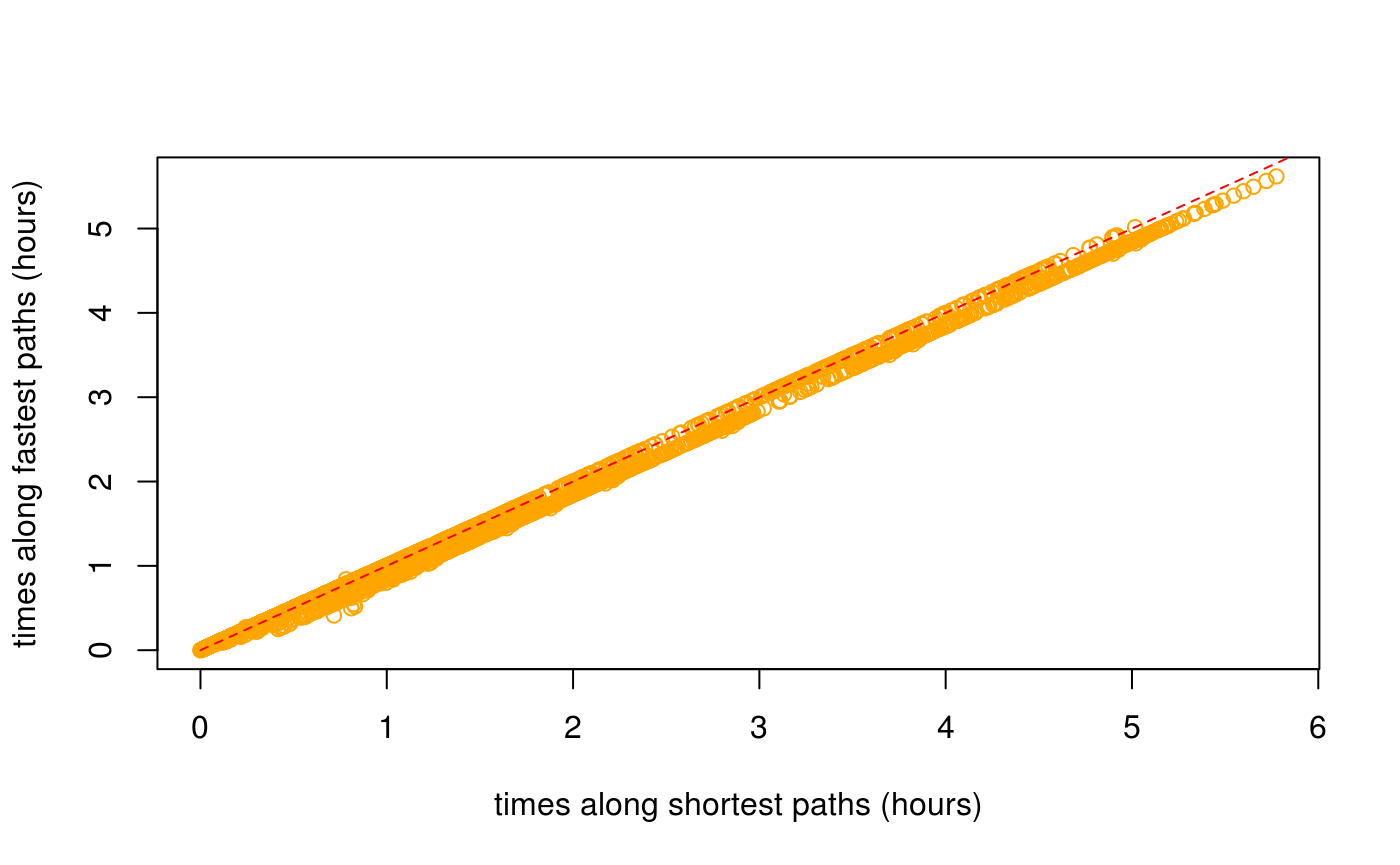
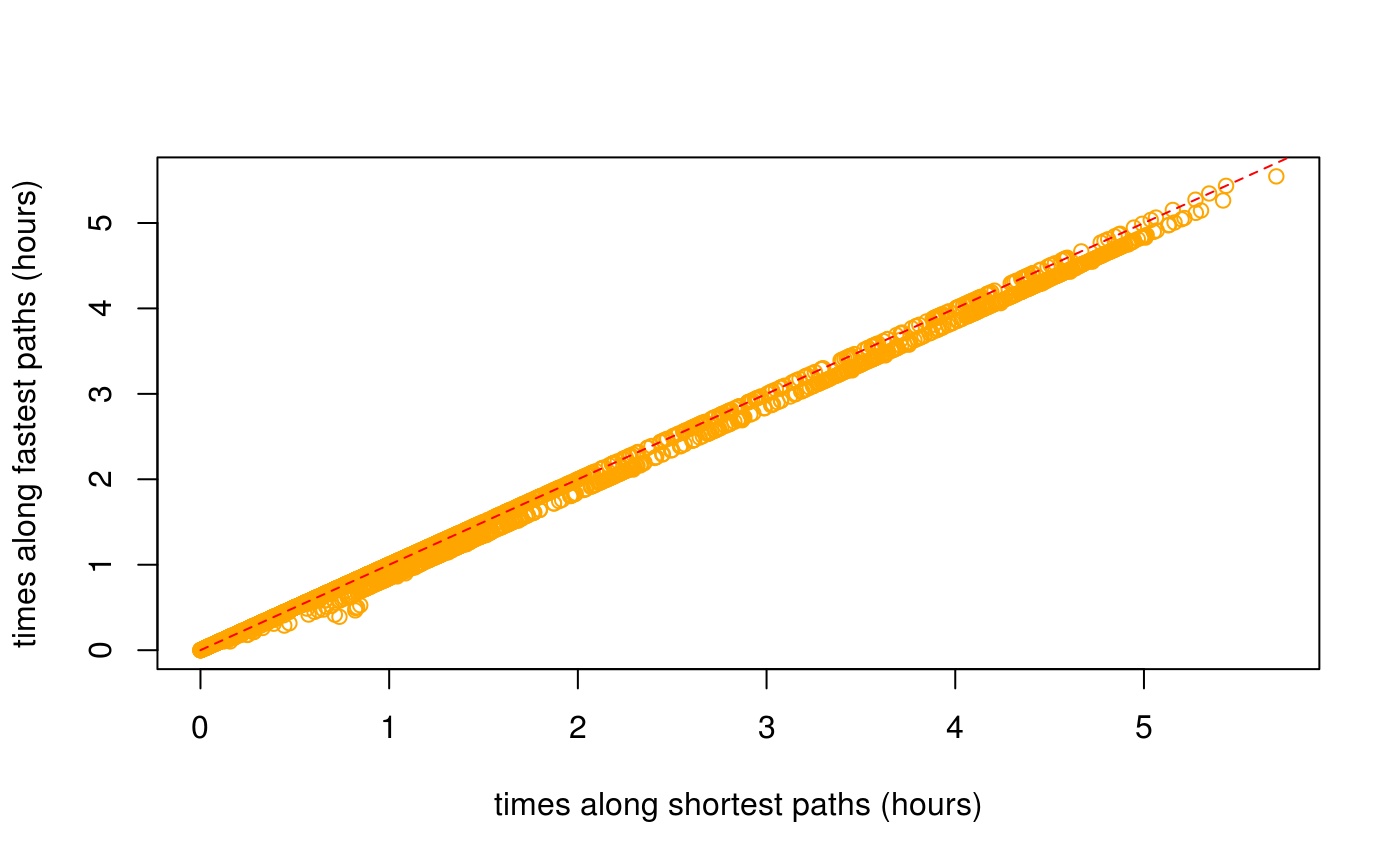
Built site for dodgr: 0.1.4.1@75f4a2b

diff --git a/articles/dodgr.html b/articles/dodgr.html
@@ -343,7 +343,7 @@ Figure 2: A <strong>dual</strong>-weighted, directed graph in which the weights 
 <p>The <code>dodgr</code> packages includes a function to select a random connected portion of graph including a specified number of vertices. This function is used in the <code><a href="../reference/compare_heaps.html">compare_heaps()</a></code> function described below, but is also useful for general statistical analyses of large graphs which may otherwise take too long to compute.</p>
 <div class="sourceCode" id="cb59"><pre class="sourceCode r"><code class="sourceCode r"><a class="sourceLine" id="cb59-1" data-line-number="1">graph_sub &lt;-<span class="st"> </span><span class="kw"><a href="../reference/dodgr_sample.html">dodgr_sample</a></span> (graph, <span class="dt">nverts =</span> <span class="dv">100</span>)</a>
 <a class="sourceLine" id="cb59-2" data-line-number="2"><span class="kw"><a href="https://www.rdocumentation.org/packages/base/topics/nrow">nrow</a></span> (graph_sub)</a></code></pre></div>
-<pre><code>## [1] 197</code></pre>
+<pre><code>## [1] 209</code></pre>
 <p>The random sample has around twice as many edges as vertices, in accordance with the statistics calculated above.</p>
 <div class="sourceCode" id="cb61"><pre class="sourceCode r"><code class="sourceCode r"><a class="sourceLine" id="cb61-1" data-line-number="1"><span class="kw"><a href="https://www.rdocumentation.org/packages/base/topics/nrow">nrow</a></span> (<span class="kw"><a href="../reference/dodgr_vertices.html">dodgr_vertices</a></span> (graph_sub))</a></code></pre></div>
 <pre><code>## [1] 100</code></pre>
@@ -421,30 +421,30 @@ Figure 2: A <strong>dual</strong>-weighted, directed graph in which the weights 
 <div class="sourceCode" id="cb77"><pre class="sourceCode r"><code class="sourceCode r"><a class="sourceLine" id="cb77-1" data-line-number="1"><span class="kw"><a href="../reference/compare_heaps.html">compare_heaps</a></span> (graph, <span class="dt">nverts =</span> <span class="dv">100</span>, <span class="dt">replications =</span> <span class="dv">1</span>)</a></code></pre></div>
 <pre><code>##                                                                                   test
 ## 12                  d &lt;- igraph::distances(igr, v = from_id, to = to_id, mode = "out")
-## 6       d &lt;- dodgr_dists(graph_contracted, from = from_id, to = to_id, heap = "BHeap")
 ## 9  d &lt;- dodgr_dists(graph_contracted, from = from_id, to = to_id, heap = "TriHeapExt")
-## 2                  d &lt;- dodgr_dists(graph, from = from_id, to = to_id, heap = "FHeap")
-## 3                d &lt;- dodgr_dists(graph, from = from_id, to = to_id, heap = "TriHeap")
-## 4             d &lt;- dodgr_dists(graph, from = from_id, to = to_id, heap = "TriHeapExt")
-## 7       d &lt;- dodgr_dists(graph_contracted, from = from_id, to = to_id, heap = "FHeap")
-## 8     d &lt;- dodgr_dists(graph_contracted, from = from_id, to = to_id, heap = "TriHeap")
 ## 10     d &lt;- dodgr_dists(graph_contracted, from = from_id, to = to_id, heap = "Heap23")
 ## 11        d &lt;- dodgr_dists(graph_contracted, from = from_id, to = to_id, heap = "set")
 ## 1                  d &lt;- dodgr_dists(graph, from = from_id, to = to_id, heap = "BHeap")
+## 2                  d &lt;- dodgr_dists(graph, from = from_id, to = to_id, heap = "FHeap")
+## 3                d &lt;- dodgr_dists(graph, from = from_id, to = to_id, heap = "TriHeap")
+## 4             d &lt;- dodgr_dists(graph, from = from_id, to = to_id, heap = "TriHeapExt")
 ## 5                 d &lt;- dodgr_dists(graph, from = from_id, to = to_id, heap = "Heap23")
+## 6       d &lt;- dodgr_dists(graph_contracted, from = from_id, to = to_id, heap = "BHeap")
+## 7       d &lt;- dodgr_dists(graph_contracted, from = from_id, to = to_id, heap = "FHeap")
+## 8     d &lt;- dodgr_dists(graph_contracted, from = from_id, to = to_id, heap = "TriHeap")
 ##    replications elapsed relative user.self sys.self user.child sys.child
 ## 12            1   0.001        1     0.000        0          0         0
-## 6             1   0.002        2     0.004        0          0         0
 ## 9             1   0.002        2     0.000        0          0         0
+## 10            1   0.002        2     0.004        0          0         0
+## 11            1   0.002        2     0.000        0          0         0
+## 1             1   0.003        3     0.004        0          0         0
 ## 2             1   0.003        3     0.004        0          0         0
 ## 3             1   0.003        3     0.004        0          0         0
 ## 4             1   0.003        3     0.004        0          0         0
+## 5             1   0.003        3     0.000        0          0         0
+## 6             1   0.003        3     0.004        0          0         0
 ## 7             1   0.003        3     0.004        0          0         0
-## 8             1   0.003        3     0.004        0          0         0
-## 10            1   0.003        3     0.004        0          0         0
-## 11            1   0.003        3     0.004        0          0         0
-## 1             1   0.004        4     0.004        0          0         0
-## 5             1   0.004        4     0.004        0          0         0</code></pre>
+## 8             1   0.003        3     0.004        0          0         0</code></pre>
 <p>The key column of that <code>data.frame</code> is <code>relative</code>, which quantifies the relative performance of each test in relation to the best which is given a score of 1. <code>dodgr</code> using the default <code>heap = "BHeap"</code>, which is a binary heap priority queue, performs faster than <code>igraph</code> <span class="citation">(Csardi and Nepusz 2006)</span> for these graphs. Different kind of graphs will perform differently with different priority queue structures, and this function enables users to empirically discern the optimal heap for their kind of graph.</p>
 <p>Note, however, that this is not an entirely fair comparison, because <code>dodgr</code> calculates dual-weighted distances, whereas <code>igraph</code>—and indeed all other <strong>R</strong> packages—only directly calculate distances based on a single set of weights. Implementing dual-weighted routing in these cases requires explicitly re-tracing all paths and summing the second set of weights along each path. A time comparison in that case would be very strongly in favour of <code>dodgr</code>. Moreover, <code>dodgr</code> can convert graphs to contracted form through removing redundant vertices, as detailed in the following section. Doing so greatly improves performance with respect to <code>igraph</code>.</p>
 <p>For those wishing to do explicit comparisons themselves, the following code generates the <code>igraph</code> equivalent of <code><a href="../reference/dodgr_dists.html">dodgr_dists()</a></code>, although of course for single-weighted graphs only:</p>
@@ -482,10 +482,10 @@ Figure 3: <strong>(A)</strong> Vertex#2 is redundant for routing calculations fr
 <a class="sourceLine" id="cb85-6" data-line-number="6">                       <span class="dt">replications =</span> <span class="dv">2</span>)</a></code></pre></div>
 <pre><code>##                                             test replications elapsed
 ## 2 d2 &lt;- dodgr_dists(graph, from = from, to = to)            2   0.051
-## 1   d2 &lt;- dodgr_dists(grc, from = from, to = to)            2   0.010
+## 1   d2 &lt;- dodgr_dists(grc, from = from, to = to)            2   0.011
 ##   relative user.self sys.self user.child sys.child
-## 2      5.1     0.072        0          0         0
-## 1      1.0     0.012        0          0         0</code></pre>
+## 2    4.636     0.068    0.004          0         0
+## 1    1.000     0.016    0.000          0         0</code></pre>
 <p>And contracting the graph has a similar effect of speeding up pairwise routing between these 100 points. All routing algorithms scale non-linearly with size, and relative improvements in efficiency will be even greater for larger graphs.</p>
 <div id="routing-on-contracted-graphs" class="section level2">
 <h2 class="hasAnchor">
@@ -497,11 +497,11 @@ Figure 3: <strong>(A)</strong> Vertex#2 is redundant for routing calculations fr
 <pre><code>## [1] 688</code></pre>
 <div class="sourceCode" id="cb89"><pre class="sourceCode r"><code class="sourceCode r"><a class="sourceLine" id="cb89-1" data-line-number="1">verts &lt;-<span class="st"> </span><span class="kw"><a href="https://www.rdocumentation.org/packages/base/topics/sample">sample</a></span> (<span class="kw"><a href="../reference/dodgr_vertices.html">dodgr_vertices</a></span> (graph)<span class="op">$</span>id, <span class="dt">size =</span> <span class="dv">100</span>)</a>
 <a class="sourceLine" id="cb89-2" data-line-number="2"><span class="kw"><a href="https://www.rdocumentation.org/packages/utils/topics/head">head</a></span> (verts) <span class="co"># a character vector</span></a></code></pre></div>
-<pre><code>## [1] "2608163889" "339318481"  "2195425010" "3544918738" "1204772675"
-## [6] "3456932072"</code></pre>
+<pre><code>## [1] "980400701"  "977473148"  "1376768866" "1143452081" "2627465900"
+## [6] "2398957798"</code></pre>
 <div class="sourceCode" id="cb91"><pre class="sourceCode r"><code class="sourceCode r"><a class="sourceLine" id="cb91-1" data-line-number="1">grc &lt;-<span class="st"> </span><span class="kw"><a href="../reference/dodgr_contract_graph.html">dodgr_contract_graph</a></span> (graph, verts)<span class="op">$</span>graph</a>
 <a class="sourceLine" id="cb91-2" data-line-number="2"><span class="kw"><a href="https://www.rdocumentation.org/packages/base/topics/nrow">nrow</a></span> (grc)</a></code></pre></div>
-<pre><code>## [1] 868</code></pre>
+<pre><code>## [1] 860</code></pre>
 <p>Retaining the nominated vertices yields a graph with considerably more edges than the fully contracted graph excluding these vertices. The <code><a href="../reference/dodgr_dists.html">dodgr_dists()</a></code> function can be applied to the latter graph to obtain accurate distances precisely routed between these points, yet using the speed advantages of graph contraction.</p>
 </div>
 </div>
@@ -542,25 +542,22 @@ Figure 3: <strong>(A)</strong> Vertex#2 is redundant for routing calculations fr
 <pre><code>## [1] 10</code></pre>
 <p>The result (<code>dp</code>) is a list of 10 items, each of which contains 5 vectors. An example is,</p>
 <div class="sourceCode" id="cb98"><pre class="sourceCode r"><code class="sourceCode r"><a class="sourceLine" id="cb98-1" data-line-number="1">dp [[<span class="dv">1</span>]] [[<span class="dv">1</span>]]</a></code></pre></div>
-<pre><code>##  [1] "571423194"  "571423193"  "571423192"  "571423191"  "571423190" 
-##  [6] "571423189"  "2195425004" "571423185"  "571423179"  "977490136" 
-## [11] "1143452068" "1143452367" "977490059"  "2195424990" "2195424987"
-## [16] "2195424986" "2195424994" "2195425005" "2195425010" "2195425013"
-## [21] "2195425018" "2195425025" "2195425030" "2195425036" "2195425039"
-## [26] "2195425040" "2195425042" "2195425049" "2195425046" "2195425044"
-## [31] "2195425043" "2195425045" "2195425051" "2195425055" "2195425057"
-## [36] "2195425060"</code></pre>
+<pre><code>##  [1] "1398748025" "1398747921" "1398747948" "1398747978" "1398748001"
+##  [6] "1388481878" "1388482427" "1388482128" "1388482818" "1388483505"
+## [11] "977490091"  "1388482641" "1388481994" "1388483314" "977490139" 
+## [16] "1388483597" "977490076"  "1388482737" "1388482060" "2718045832"
+## [21] "2195424937" "2195424935"</code></pre>
 <p>For spatial graphs, the coordinates of these paths can be obtained by extracting the vertices with <code><a href="../reference/dodgr_vertices.html">dodgr_vertices()</a></code> and matching the vertex IDs:</p>
 <div class="sourceCode" id="cb100"><pre class="sourceCode r"><code class="sourceCode r"><a class="sourceLine" id="cb100-1" data-line-number="1">verts &lt;-<span class="st"> </span><span class="kw"><a href="../reference/dodgr_vertices.html">dodgr_vertices</a></span> (graph)</a>
 <a class="sourceLine" id="cb100-2" data-line-number="2">path1 &lt;-<span class="st"> </span>verts [<span class="kw"><a href="https://www.rdocumentation.org/packages/base/topics/match">match</a></span> (dp [[<span class="dv">1</span>]] [[<span class="dv">1</span>]], verts<span class="op">$</span>id), ]</a>
 <a class="sourceLine" id="cb100-3" data-line-number="3"><span class="kw"><a href="https://www.rdocumentation.org/packages/utils/topics/head">head</a></span> (path1)</a></code></pre></div>
-<pre><code>##             id        x        y component   n
-## 672  571423194 76.47538 15.35709         2 345
-## 1726 571423193 76.47527 15.35666         2 874
-## 1724 571423192 76.47493 15.35603         2 873
-## 1722 571423191 76.47450 15.35552         2 872
-## 1720 571423190 76.47422 15.35506         2 871
-## 1718 571423189 76.47330 15.35346         2 870</code></pre>
+<pre><code>##              id        x        y component    n
+## 3022 1398748025 76.45443 15.34953         2 1516
+## 3020 1398747921 76.45434 15.34944         2 1515
+## 3018 1398747948 76.45421 15.34934         2 1514
+## 3016 1398747978 76.45408 15.34919         2 1513
+## 3014 1398748001 76.45403 15.34898         2 1512
+## 1634 1388481878 76.45378 15.34817         2  828</code></pre>
 <p>Paths calculated on contracted graphs will of course have fewer vertices than those calculated on full graphs.</p>
 </div>
 <div id="aggregated-flows" class="section level1">
@@ -594,17 +591,17 @@ Figure 3: <strong>(A)</strong> Vertex#2 is redundant for routing calculations fr
 ## 4 15.34173   8.888670    9.87630 service 28565950         1  2.133281
 ## 5 15.34179   9.326536   10.36282 service 28565950         1  2.238369
 ## 6 15.34174   9.326536   10.36282 service 28565950         1  2.238369
-##   time_weighted flow
-## 1     35.317912    0
-## 2     35.317912    0
-## 3      2.370312    0
-## 4      2.370312    0
-## 5      2.487076    0
-## 6      2.487076    0</code></pre>
+##   time_weighted     flow
+## 1     35.317912  0.00000
+## 2     35.317912 32.34108
+## 3      2.370312  0.00000
+## 4      2.370312 32.34108
+## 5      2.487076  0.00000
+## 6      2.487076  0.00000</code></pre>
 <p>Most flows are zero because they have only been calculated between very few points in the graph.</p>
 <div class="sourceCode" id="cb105"><pre class="sourceCode r"><code class="sourceCode r"><a class="sourceLine" id="cb105-1" data-line-number="1"><span class="kw"><a href="https://www.rdocumentation.org/packages/base/topics/summary">summary</a></span> (graph_f<span class="op">$</span>flow)</a></code></pre></div>
 <pre><code>##    Min. 1st Qu.  Median    Mean 3rd Qu.    Max. 
-##   0.000   0.000   0.000   3.286   0.000  86.919</code></pre>
+##   0.000   0.000   0.000   5.333   0.000  72.083</code></pre>
 </div>
 <div id="flow-dispersal" class="section level2">
 <h2 class="hasAnchor">
@@ -614,7 +611,7 @@ Figure 3: <strong>(A)</strong> Vertex#2 is redundant for routing calculations fr
 <a class="sourceLine" id="cb107-2" data-line-number="2">graph_f &lt;-<span class="st"> </span><span class="kw"><a href="../reference/dodgr_flows_disperse.html">dodgr_flows_disperse</a></span> (graph, <span class="dt">from =</span> from, <span class="dt">dens =</span> dens)</a>
 <a class="sourceLine" id="cb107-3" data-line-number="3"><span class="kw"><a href="https://www.rdocumentation.org/packages/base/topics/summary">summary</a></span> (graph_f<span class="op">$</span>flow)</a></code></pre></div>
 <pre><code>##      Min.   1st Qu.    Median      Mean   3rd Qu.      Max. 
-## 0.000e+00 0.000e+00 0.000e+00 1.174e-05 0.000e+00 4.191e-02</code></pre>
+## 0.000e+00 0.000e+00 0.000e+00 6.315e-06 0.000e+00 1.174e-02</code></pre>
 </div>
 <div id="merging-directed-flows" class="section level2">
 <h2 class="hasAnchor">
@@ -624,7 +621,7 @@ Figure 3: <strong>(A)</strong> Vertex#2 is redundant for routing calculations fr
 <p>Resultant graphs produced by <code><a href="../reference/merge_directed_flows.html">merge_directed_flows()</a></code> only include those edges having non-zero flows, and so:</p>
 <div class="sourceCode" id="cb110"><pre class="sourceCode r"><code class="sourceCode r"><a class="sourceLine" id="cb110-1" data-line-number="1"><span class="kw"><a href="https://www.rdocumentation.org/packages/base/topics/nrow">nrow</a></span> (graph_f); <span class="kw"><a href="https://www.rdocumentation.org/packages/base/topics/nrow">nrow</a></span> (graph_undir) <span class="co"># the latter is much smaller</span></a></code></pre></div>
 <pre><code>## [1] 5845</code></pre>
-<pre><code>## [1] 1837</code></pre>
+<pre><code>## [1] 1383</code></pre>
 <p>The resultant graph can readily be merged with the original graph to regain the original data on vertex coordinates through</p>
 <div class="sourceCode" id="cb113"><pre class="sourceCode r"><code class="sourceCode r"><a class="sourceLine" id="cb113-1" data-line-number="1">graph &lt;-<span class="st"> </span>graph [graph_undir<span class="op">$</span>edge_id, ]</a>
 <a class="sourceLine" id="cb113-2" data-line-number="2">graph<span class="op">$</span>flow &lt;-<span class="st"> </span>graph_undir<span class="op">$</span>flow</a></code></pre></div>

diff --git a/articles/times.html b/articles/times.html
@@ -233,11 +233,11 @@ Figure 1: Graph modification to account for turn angles, which introduces the ad
 <p><img src="times_files/figure-html/shortest-vs-fastest-1.png" width="700"></p>
 <p>The average distance between the two (in metres) is:</p>
 <div class="sourceCode" id="cb11"><pre class="sourceCode r"><code class="sourceCode r"><a class="sourceLine" id="cb11-1" data-line-number="1"><span class="kw"><a href="https://www.rdocumentation.org/packages/base/topics/mean">mean</a></span> (<span class="kw"><a href="https://www.rdocumentation.org/packages/base/topics/MathFun">abs</a></span> (d_time <span class="op">-</span><span class="st"> </span>d_dist), <span class="dt">na.rm =</span> <span class="ot">TRUE</span>)</a></code></pre></div>
-<pre><code>## [1] 29.88416</code></pre>
+<pre><code>## [1] 23.38834</code></pre>
 <p>The plot reveals that shortest distances are indeed somewhat shorter than distances along fastest paths, but also that some fastest paths are actually shorter than shortest paths:</p>
 <div class="sourceCode" id="cb13"><pre class="sourceCode r"><code class="sourceCode r"><a class="sourceLine" id="cb13-1" data-line-number="1">index &lt;-<span class="st"> </span><span class="kw"><a href="https://www.rdocumentation.org/packages/base/topics/which">which</a></span> (<span class="op">!</span><span class="kw"><a href="https://www.rdocumentation.org/packages/base/topics/NA">is.na</a></span> (d_time) <span class="op">&amp;</span><span class="st"> </span><span class="op">!</span><span class="kw"><a href="https://www.rdocumentation.org/packages/base/topics/NA">is.na</a></span> (d_dist))</a>
 <a class="sourceLine" id="cb13-2" data-line-number="2"><span class="kw"><a href="https://www.rdocumentation.org/packages/base/topics/length">length</a></span> (<span class="kw"><a href="https://www.rdocumentation.org/packages/base/topics/which">which</a></span> (d_time [index] <span class="op">&lt;</span><span class="st"> </span>d_dist [index])) <span class="op">/</span><span class="st"> </span><span class="kw"><a href="https://www.rdocumentation.org/packages/base/topics/length">length</a></span> (index)</a></code></pre></div>
-<pre><code>## [1] 0.0130524</code></pre>
+<pre><code>## [1] 0.005098039</code></pre>
 <p>While <code>dodgr</code> and indeed all routing engines attempt to maximally reconcile differences between fastest and shortest routes, there nevertheless remain important discrepancies. Foremost among these, and the primary reason why some fastest routes may in fact be shorter than shortest routes, is that fastest routes allocate preferences for different kinds of way based both on the <code>value</code> column in the <code>weighting_profiles$weighting_profiles</code> table illustrated above, and on the actual maximum speed of a given edge, which itself may be a combination of maximum speeds as specified in OSM itself, maximum speeds from the <code>weighting_profiles$weighting_profiles</code> table, or values specific to a given surface. The result is that some unique combination of maximum speeds along a network may lead to <em>fastest</em> routes being preferentially directed along a path that is actually shorter than the direct shortest path which is calculated independent of maximum speed values.</p>
 <p>Such discrepancies are important in understanding differences in routes <em>times</em> calculated along shortest versus fastest paths. These times can be calculated (in seconds) with the <a href="https://atfutures.github.io/dodgr/reference/dodgr_times.html"><code><a href="../reference/dodgr_times.html">dodgr_times()</a></code></a> function:</p>
 <div class="sourceCode" id="cb15"><pre class="sourceCode r"><code class="sourceCode r"><a class="sourceLine" id="cb15-1" data-line-number="1">t_dist &lt;-<span class="st"> </span><span class="kw"><a href="../reference/dodgr_times.html">dodgr_times</a></span> (graph, <span class="dt">from =</span> from, <span class="dt">to =</span> to, <span class="dt">shortest =</span> <span class="ot">TRUE</span>) <span class="co"># default</span></a>
@@ -248,11 +248,11 @@ Figure 1: Graph modification to account for turn angles, which introduces the ad
 <a class="sourceLine" id="cb15-6" data-line-number="6"><span class="kw"><a href="https://www.rdocumentation.org/packages/graphics/topics/lines">lines</a></span> (<span class="dv">0</span><span class="op">:</span><span class="dv">100</span>, <span class="dv">0</span><span class="op">:</span><span class="dv">100</span>, <span class="dt">col =</span> <span class="st">"red"</span>, <span class="dt">lty =</span> <span class="dv">2</span>)</a></code></pre></div>
 <p><img src="times_files/figure-html/shortest-vs-fastest-times-1.png" width="700"></p>
 <div class="sourceCode" id="cb16"><pre class="sourceCode r"><code class="sourceCode r"><a class="sourceLine" id="cb16-1" data-line-number="1"><span class="kw"><a href="https://www.rdocumentation.org/packages/base/topics/mean">mean</a></span> (<span class="kw"><a href="https://www.rdocumentation.org/packages/base/topics/MathFun">abs</a></span> (t_time <span class="op">-</span><span class="st"> </span>t_dist), <span class="dt">na.rm =</span> <span class="ot">TRUE</span>)</a></code></pre></div>
-<pre><code>## [1] 119.1066</code></pre>
+<pre><code>## [1] 87.84099</code></pre>
 <p>As above, times along fastest paths are generally less than times along shortest paths, although there are again a few exceptions:</p>
 <div class="sourceCode" id="cb18"><pre class="sourceCode r"><code class="sourceCode r"><a class="sourceLine" id="cb18-1" data-line-number="1">index &lt;-<span class="st"> </span><span class="kw"><a href="https://www.rdocumentation.org/packages/base/topics/which">which</a></span> (<span class="op">!</span><span class="kw"><a href="https://www.rdocumentation.org/packages/base/topics/NA">is.na</a></span> (t_time) <span class="op">&amp;</span><span class="st"> </span><span class="op">!</span><span class="kw"><a href="https://www.rdocumentation.org/packages/base/topics/NA">is.na</a></span> (t_dist))</a>
 <a class="sourceLine" id="cb18-2" data-line-number="2"><span class="kw"><a href="https://www.rdocumentation.org/packages/base/topics/length">length</a></span> (<span class="kw"><a href="https://www.rdocumentation.org/packages/base/topics/which">which</a></span> (t_dist [index] <span class="op">&lt;</span><span class="st"> </span>t_time [index])) <span class="op">/</span><span class="st"> </span><span class="kw"><a href="https://www.rdocumentation.org/packages/base/topics/length">length</a></span> (index)</a></code></pre></div>
-<pre><code>## [1] 0.009136677</code></pre>
+<pre><code>## [1] 0.01509804</code></pre>
 <p>These results demonstrate how the combination of the <a href="https://atfutures.github.io/dodgr/reference/dodgr_distances.html"><code><a href="../reference/dodgr_distances.html">dodgr_distances()</a></code></a> and <a href="https://atfutures.github.io/dodgr/reference/dodgr_times.html"><code><a href="../reference/dodgr_times.html">dodgr_times()</a></code></a> functions enable calculation of both distances and times along both shortest and fastest paths.</p>
 <div id="time-based-paths-and-flow-aggregation" class="section level2">
 <h2 class="hasAnchor">

diff --git a/index.html b/index.html
@@ -79,14 +79,14 @@
 <div id="dodgr-distances-on-directed-graphs-in-r" class="section level1">
 <div class="page-header"><h1 class="hasAnchor">
 <a href="#dodgr-distances-on-directed-graphs-in-r" class="anchor"></a>dodgr: Distances on Directed Graphs in R</h1></div>
-<p>R package for efficient calculation of many-to-many pairwise distances on dual-weighted directed graphs, for aggregation of flows throughout networks, and for highly realistic routing through street networks.</p>
+<p>R package for efficient calculation of many-to-many pairwise distances on dual-weighted directed graphs, for aggregation of flows throughout networks, and for highly realistic routing through street networks (time-based routing considering incline, turn-angles, surface quality, everything).</p>
 <div id="whats-so-special" class="section level2">
 <h2 class="hasAnchor">
 <a href="#whats-so-special" class="anchor"></a>What’s so special?</h2>
-<p>Four aspects. First, while other packages exist for calculating distances on directed graphs, notably <a href="https://igraph.org/r"><code>igraph</code></a>, even this otherwise fabulous package does not (readily) permit analysis of <em>dual-weighted</em> graphs. Dual-weighted graphs have two sets of weights for each edge, so routing can be evaluated with one set of weights, while distances can be calculated with the other. A canonical example is a street network, where <em>weighted distances</em> are assigned depending on mode of transport (for example, weighted distances for pedestrians on multi-lane vehicular roads are longer than equivalent distances along isolated walking paths), yet the desired output remains direct, unweighted distances. Accurate calculation of distances on street networks requires a dual-weighted representation. In <strong>R</strong>, <code>dodgr</code> is currently the only package that offers this functionality (without excessive data wrangling).</p>
+<p>Four aspects. First, while other packages exist for calculating distances on directed graphs, notably <a href="https://igraph.org/r"><code>igraph</code></a>, even that otherwise fabulous package does not (readily) permit analysis of <em>dual-weighted</em> graphs. Dual-weighted graphs have two sets of weights for each edge, so routing can be evaluated with one set of weights, while distances can be calculated with the other. A canonical example is a street network, where <em>weighted distances</em> are assigned depending on mode of transport (for example, weighted distances for pedestrians on multi-lane vehicular roads are longer than equivalent distances along isolated walking paths), yet the desired output remains direct, unweighted distances. Accurate calculation of distances on street networks requires a dual-weighted representation. In <strong>R</strong>, <code>dodgr</code> is currently the only package that offers this functionality (without excessive data wrangling).</p>
 <p>Second, while <a href="https://igraph.org/r"><code>igraph</code></a> and almost all other routing packages are primarily designed for one-to-one routing, <code>dodgr</code> is specifically designed for many-to-many routing, and will generally outperform equivalent packages in large routing tasks.</p>
 <p>Third, <code>dodgr</code> goes beyond the functionality of comparable packages through including routines to aggregate flows throughout a network, through specifying origins, destinations, and flow densities between each pair of points. Alternatively, flows can be aggregated according to a network dispersal model from a set of origin points and associated densities, and a user-specified dispersal model.</p>
-<p>Fourth and finally, <code>dodgr</code> implements highly realistic and fully-customisable profiles for routing through street networks with various modes of transport. Routing can include such factors as waiting times at traffic lights, delays for turning across oncoming traffic, and the effects of elevation on both cyclists and pedestrians.</p>
+<p>Fourth and finally, <code>dodgr</code> implements highly realistic and fully-customisable profiles for routing through street networks with various modes of transport, and using either distance- or time-based routing. Routing can include such factors as waiting times at traffic lights, delays for turning across oncoming traffic, and the effects of elevation on both cyclists and pedestrians.</p>
 </div>
 <div id="installation" class="section level2">
 <h2 class="hasAnchor">
@@ -511,7 +511,7 @@
 <td align="right">1</td>
 <td align="right">95.358362</td>
 <td align="right">105.953735</td>
-<td align="right">15.59917</td>
+<td align="right">60.0678</td>
 </tr>
 <tr class="even">
 <td align="right">1</td>
@@ -529,7 +529,7 @@
 <td align="right">1</td>
 <td align="right">95.358362</td>
 <td align="right">105.953735</td>
-<td align="right">73.85191</td>
+<td align="right">75.9950</td>
 </tr>
 <tr class="odd">
 <td align="right">1</td>
@@ -547,7 +547,7 @@
 <td align="right">1</td>
 <td align="right">6.399843</td>
 <td align="right">7.110936</td>
-<td align="right">15.59917</td>
+<td align="right">60.0678</td>
 </tr>
 <tr class="even">
 <td align="right">1</td>
@@ -565,7 +565,7 @@
 <td align="right">1</td>
 <td align="right">6.399843</td>
 <td align="right">7.110936</td>
-<td align="right">73.85191</td>
+<td align="right">75.9950</td>
 </tr>
 <tr class="odd">
 <td align="right">1</td>
@@ -583,7 +583,7 @@
 <td align="right">1</td>
 <td align="right">6.715106</td>
 <td align="right">7.461229</td>
-<td align="right">15.59917</td>
+<td align="right">60.0678</td>
 </tr>
 <tr class="even">
 <td align="right">1</td>
@@ -601,7 +601,7 @@
 <td align="right">1</td>
 <td align="right">6.715106</td>
 <td align="right">7.461229</td>
-<td align="right">73.85191</td>
+<td align="right">75.9950</td>
 </tr>
 </tbody>
 </table>

diff --git a/reference/compare_heaps.html b/reference/compare_heaps.html
@@ -167,18 +167,18 @@ fair comparisons, run only once or re-start the current R session.</p>
 #&gt; 3                d &lt;- dodgr_dists(graph, from = from_id, to = to_id, heap = "TriHeap")
 #&gt; 4             d &lt;- dodgr_dists(graph, from = from_id, to = to_id, heap = "TriHeapExt")
 #&gt;    replications elapsed relative user.self sys.self user.child sys.child
-#&gt; 6             1   0.009    1.000     0.016        0          0         0
-#&gt; 11            1   0.009    1.000     0.016        0          0         0
-#&gt; 7             1   0.011    1.222     0.016        0          0         0
-#&gt; 8             1   0.011    1.222     0.016        0          0         0
-#&gt; 9             1   0.011    1.222     0.012        0          0         0
-#&gt; 10            1   0.011    1.222     0.016        0          0         0
-#&gt; 12            1   0.021    2.333     0.020        0          0         0
-#&gt; 1             1   0.034    3.778     0.060        0          0         0
-#&gt; 2             1   0.046    5.111     0.080        0          0         0
-#&gt; 5             1   0.047    5.222     0.084        0          0         0
-#&gt; 3             1   0.048    5.333     0.084        0          0         0
-#&gt; 4             1   0.056    6.222     0.056        0          0         0</div></pre>
+#&gt; 6             1   0.007    1.000     0.012        0          0         0
+#&gt; 11            1   0.007    1.000     0.012        0          0         0
+#&gt; 7             1   0.009    1.286     0.016        0          0         0
+#&gt; 8             1   0.009    1.286     0.016        0          0         0
+#&gt; 9             1   0.009    1.286     0.008        0          0         0
+#&gt; 10            1   0.009    1.286     0.016        0          0         0
+#&gt; 12            1   0.018    2.571     0.016        0          0         0
+#&gt; 1             1   0.030    4.286     0.048        0          0         0
+#&gt; 2             1   0.040    5.714     0.072        0          0         0
+#&gt; 5             1   0.041    5.857     0.072        0          0         0
+#&gt; 3             1   0.042    6.000     0.072        0          0         0
+#&gt; 4             1   0.045    6.429     0.048        0          0         0</div></pre>
   </div>
   <div class="col-md-3 hidden-xs hidden-sm" id="sidebar">
     <h2>Contents</h2>

diff --git a/reference/dodgr_sample.html b/reference/dodgr_sample.html
@@ -141,7 +141,7 @@ the requested <code>nverts</code>.</p>
     <h2 class="hasAnchor" id="examples"><a class="anchor" href="#examples"></a>Examples</h2>
     <pre class="examples"><div class='input'><span class='no'>graph</span> <span class='kw'>&lt;-</span> <span class='fu'><a href='weight_streetnet.html'>weight_streetnet</a></span> (<span class='no'>hampi</span>)
 <span class='fu'><a href='https://www.rdocumentation.org/packages/base/topics/nrow'>nrow</a></span> (<span class='no'>graph</span>) <span class='co'># 5,742</span></div><div class='output co'>#&gt; [1] 5845</div><div class='input'><span class='no'>graph</span> <span class='kw'>&lt;-</span> <span class='fu'>dodgr_sample</span> (<span class='no'>graph</span>, <span class='kw'>nverts</span> <span class='kw'>=</span> <span class='fl'>200</span>)
-<span class='fu'><a href='https://www.rdocumentation.org/packages/base/topics/nrow'>nrow</a></span> (<span class='no'>graph</span>) <span class='co'># generally around 400 edges</span></div><div class='output co'>#&gt; [1] 413</div><div class='input'><span class='fu'><a href='https://www.rdocumentation.org/packages/base/topics/nrow'>nrow</a></span> (<span class='fu'><a href='dodgr_vertices.html'>dodgr_vertices</a></span> (<span class='no'>graph</span>)) <span class='co'># 200</span></div><div class='output co'>#&gt; [1] 200</div></pre>
+<span class='fu'><a href='https://www.rdocumentation.org/packages/base/topics/nrow'>nrow</a></span> (<span class='no'>graph</span>) <span class='co'># generally around 400 edges</span></div><div class='output co'>#&gt; [1] 397</div><div class='input'><span class='fu'><a href='https://www.rdocumentation.org/packages/base/topics/nrow'>nrow</a></span> (<span class='fu'><a href='dodgr_vertices.html'>dodgr_vertices</a></span> (<span class='no'>graph</span>)) <span class='co'># 200</span></div><div class='output co'>#&gt; [1] 200</div></pre>
   </div>
   <div class="col-md-3 hidden-xs hidden-sm" id="sidebar">
     <h2>Contents</h2>
